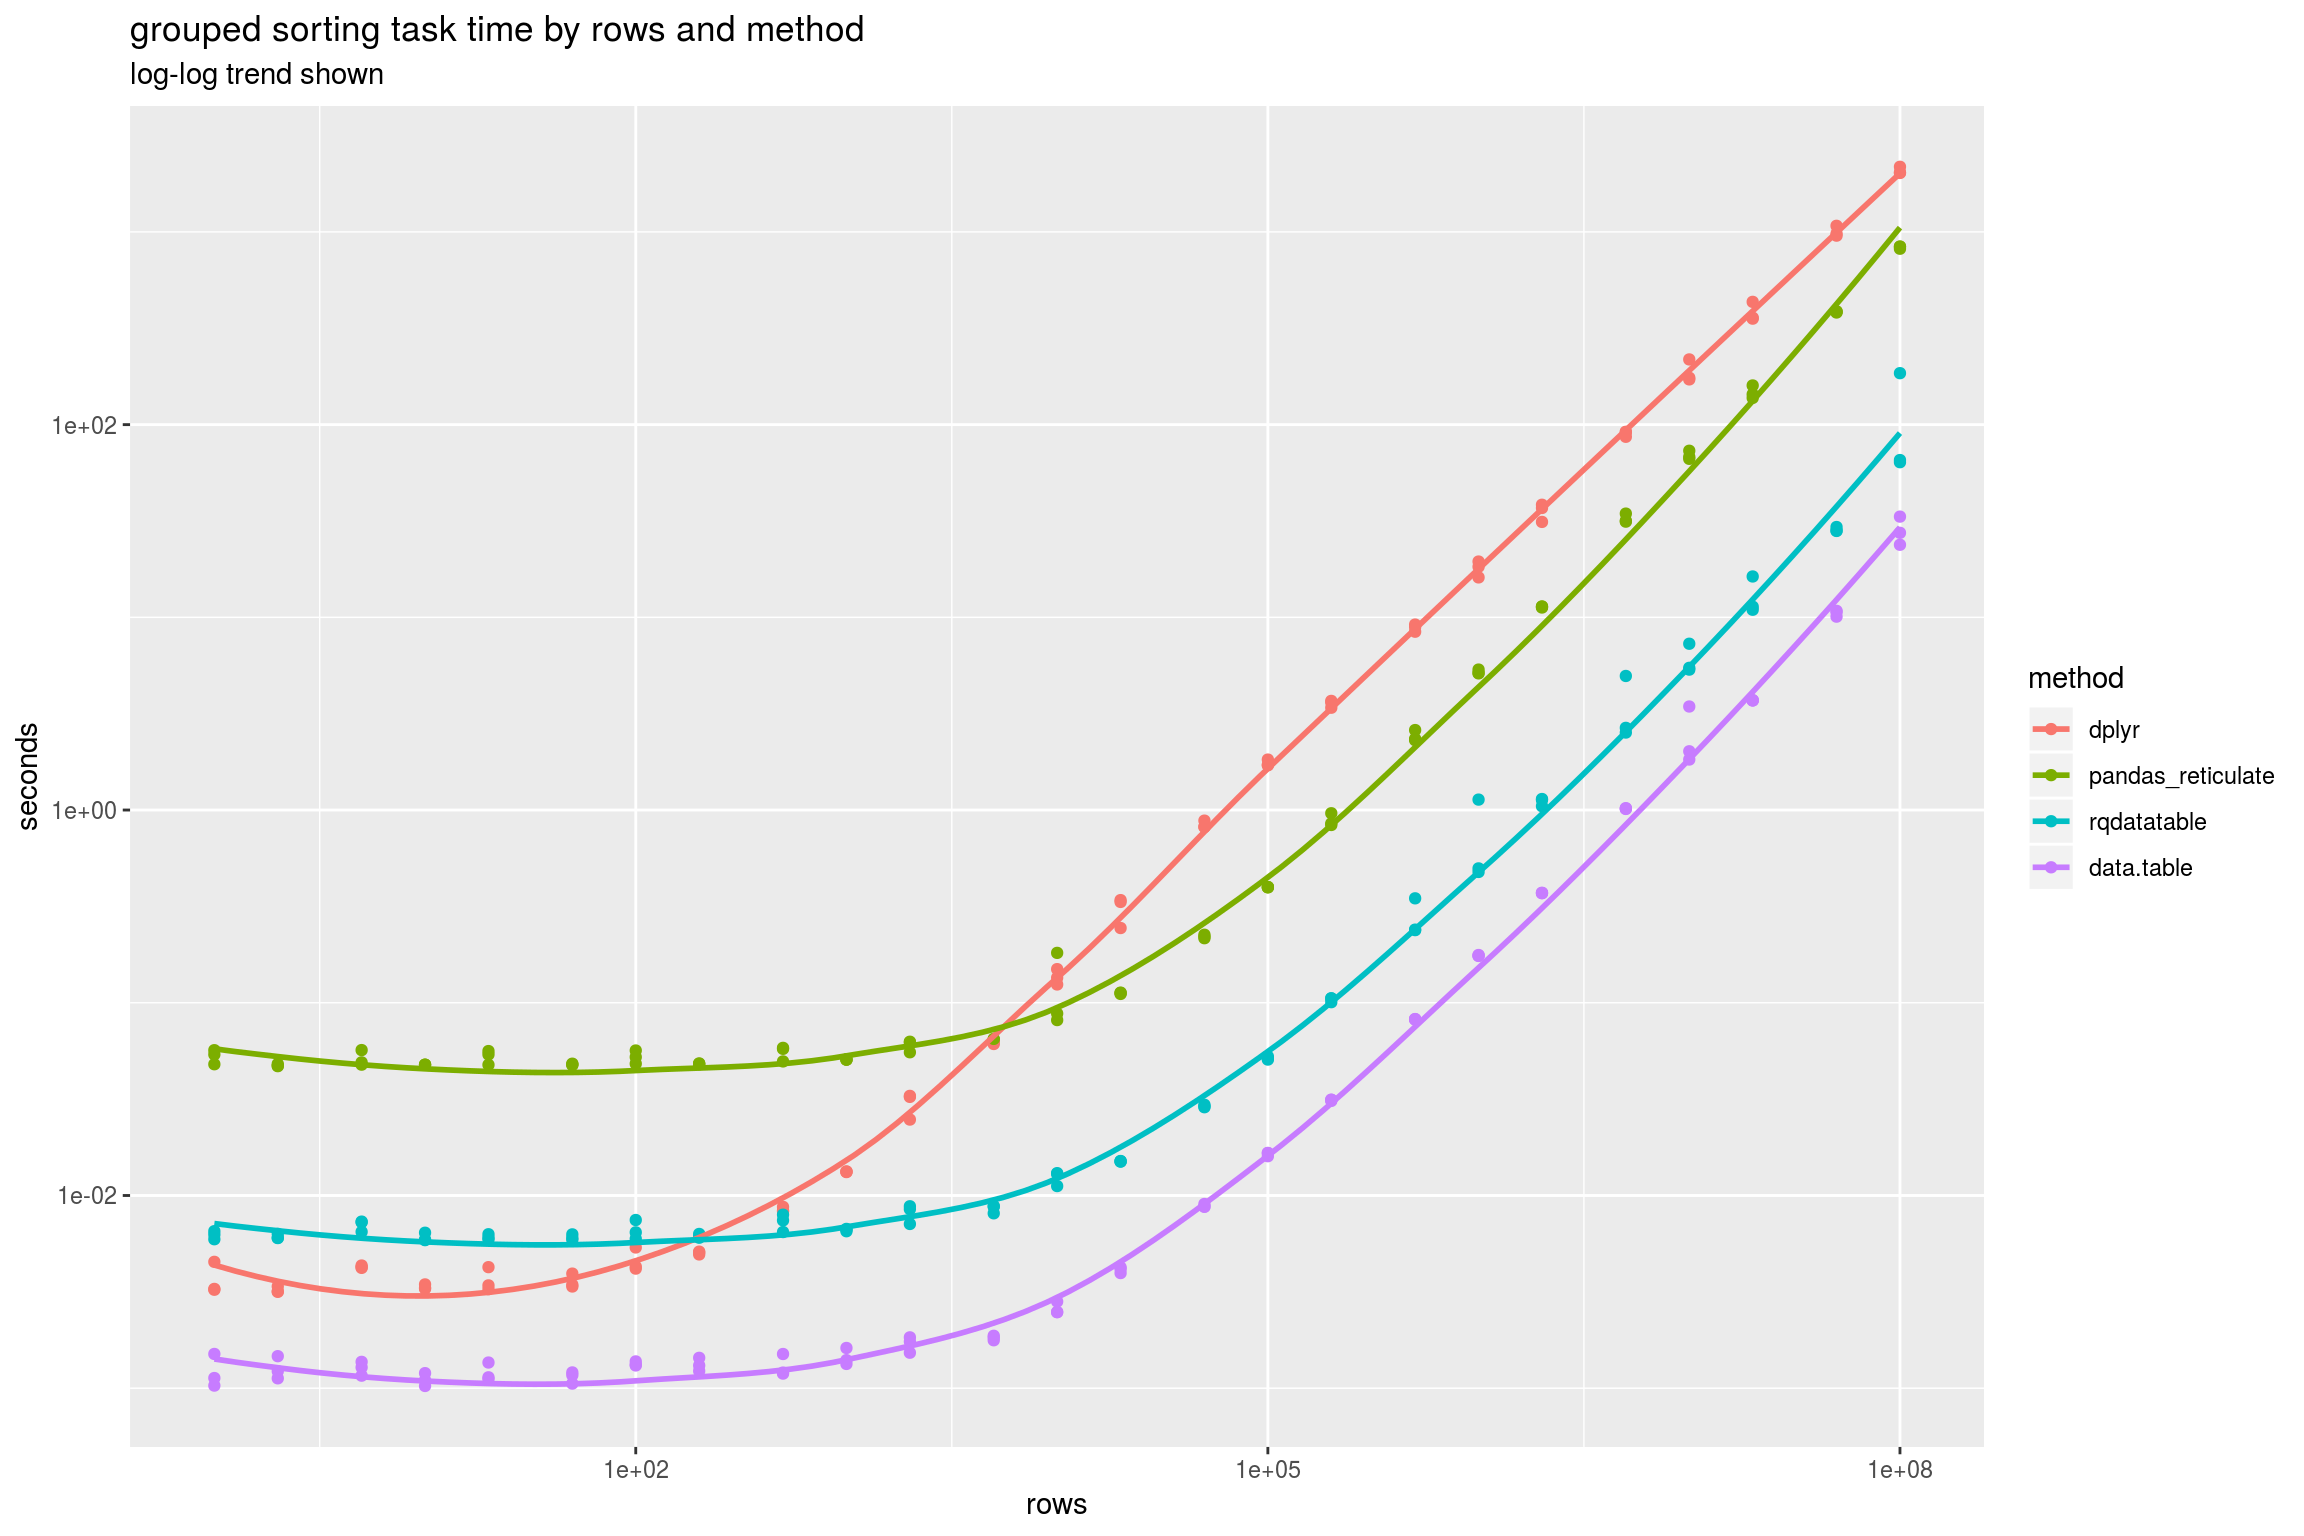
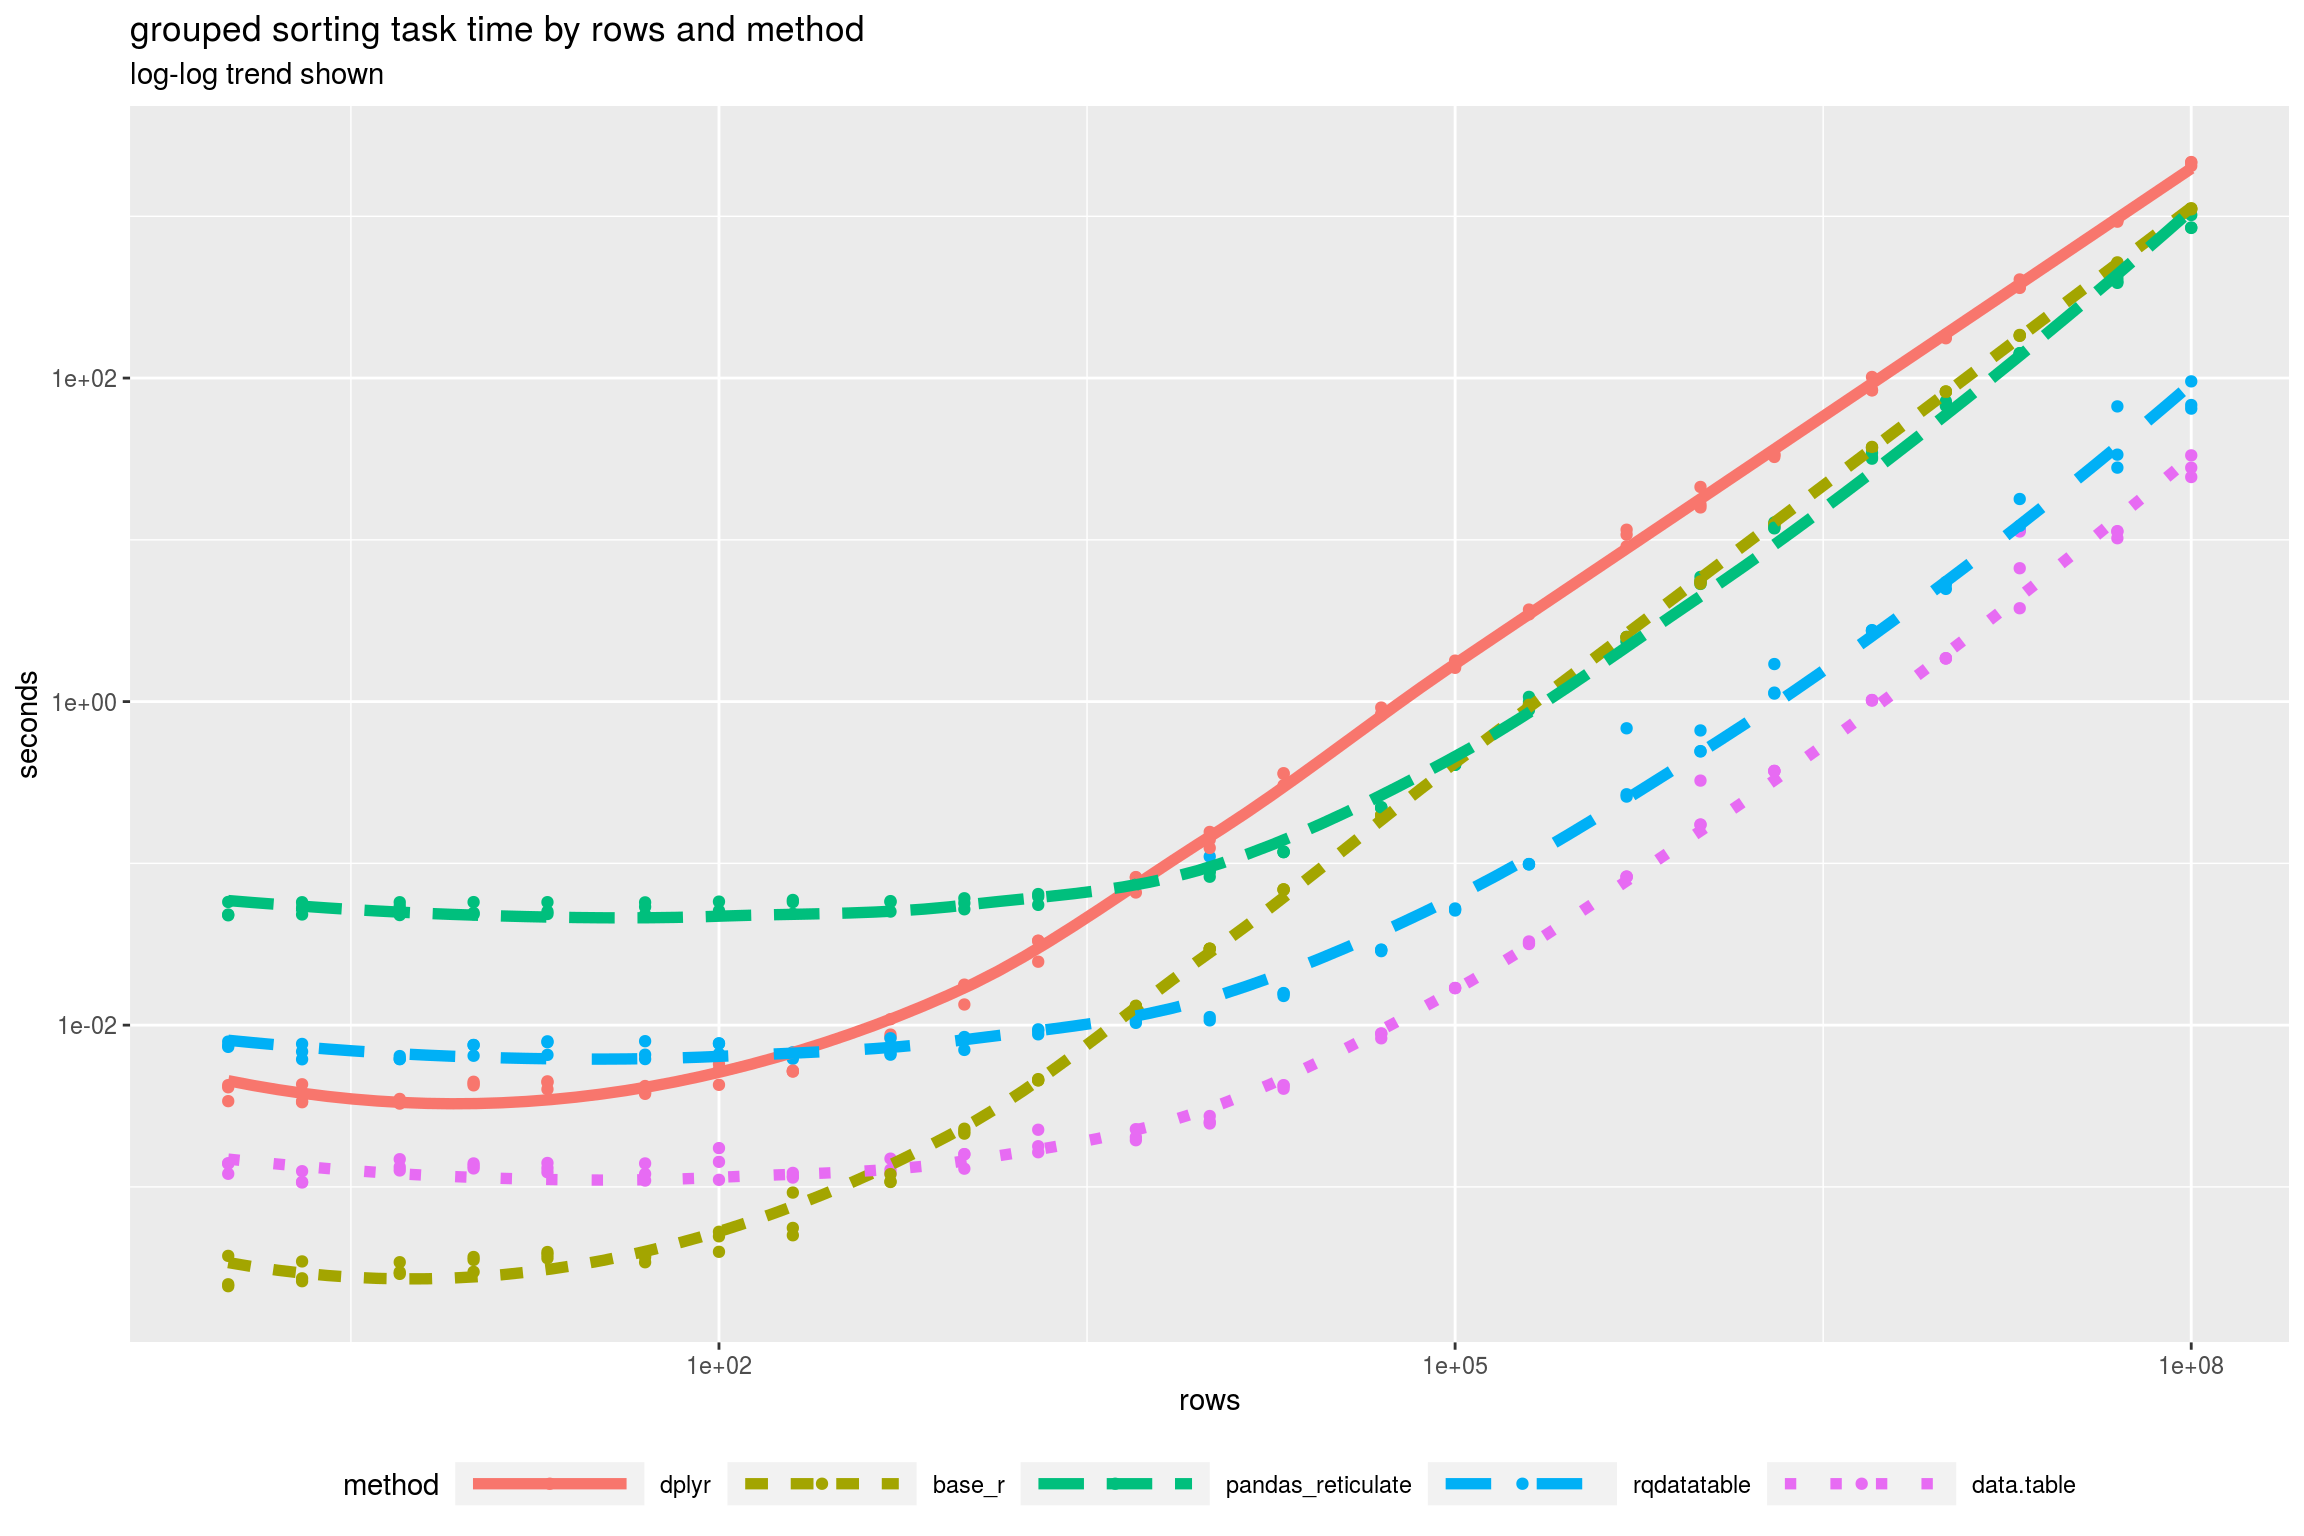
add base R to the run

diff --git a/extras/GroupedRankFilter2.md b/extras/GroupedRankFilter2.md
@@ -7,6 +7,7 @@ Amazon EC2 `r4.8xlarge` (244 GiB RAM) run (8-12-2018, 64-bit Ubuntu Server 16.04
 # https://cran.r-project.org/web/packages/reticulate/vignettes/r_markdown.html
 library("reticulate")
 use_python("/home/ruser/miniconda3/bin/python3")
+# use_python("/Users/johnmount/anaconda3/bin/python3")
 pandas_handle <- reticulate::import("pandas") # don't use as https://github.com/rstudio/reticulate/issues/319
 
 pandas_fn <- py_run_string("
@@ -116,6 +117,21 @@ ds %>%
     ## Error in rank(x, ties.method = "first", na.last = "keep"): argument "x" is missing, with no default
 
 ``` r
+shift_col <- function(col) { c(col[1], col[-length(col)]) }
+
+base_r <- function(df) {
+  df <- df[order(df$col_a, df$col_b, df$col_c, df$col_x), , drop = FALSE]
+  first <- (df$col_a != shift_col(df$col_a)) | 
+    (df$col_b != shift_col(df$col_b)) | 
+    (df$col_c != shift_col(df$col_c))
+  first[[1]] <- TRUE
+  df <- df[first, , drop = FALSE]
+  rownames(df) <- NULL
+  df
+}
+```
+
+``` r
 pow <- 8
 rds_name <- "GroupedRankFilter2_runs.RDS"
 if(!file.exists(rds_name)) {
@@ -125,8 +141,12 @@ if(!file.exists(rds_name)) {
   runs <- lapply(
     rev(szs),
     function(sz) {
+      gc()
       d <- mk_data(sz)
       ti <- microbenchmark(
+        base_r = {
+          base_r(d)
+        },
         data.table = { 
           # https://stackoverflow.com/questions/16325641/how-to-extract-the-first-n-rows-per-group
           d %.>% 
@@ -174,12 +194,16 @@ timings$seconds <- timings$time/1e+9
 timings$method <- factor(timings$expr)
 timings$method <- reorder(timings$method, -timings$seconds)
 
-ggplot(data = timings, aes(x = rows, y = seconds, color = method)) +
+ggplot(data = timings, aes(x = rows, y = seconds, 
+                           color = method, linetype = method)) +
   geom_point() + 
-  geom_smooth(se = FALSE) +
-  scale_x_log10() + scale_y_log10() +
+  geom_smooth(se = FALSE, size = 2) +
+  scale_x_log10() +
+  scale_y_log10() +
   ggtitle("grouped sorting task time by rows and method",
-          subtitle = "log-log trend shown")
+          subtitle = "log-log trend shown") +
+  theme(legend.position="bottom",
+        legend.key.width = unit(5, "line"))
 ```
 
     ## `geom_smooth()` using method = 'loess' and formula 'y ~ x'
@@ -202,39 +226,40 @@ means <- timings %.>%
 knitr::kable(means)
 ```
 
-|   rows|  data.table|         dplyr|  pandas\_reticulate|  rqdatatable|       ratio|
-|------:|-----------:|-------------:|-------------------:|------------:|-----------:|
-|  1e+00|   0.0012220|     0.0036808|           0.0528722|    0.0062401|    3.012173|
-|  2e+00|   0.0012721|     0.0032407|           0.0474003|    0.0061236|    2.547409|
-|  5e+00|   0.0012714|     0.0042640|           0.0512000|    0.0070195|    3.353799|
-|  1e+01|   0.0011080|     0.0033529|           0.0476711|    0.0060561|    3.026090|
-|  2e+01|   0.0012042|     0.0036422|           0.0525711|    0.0060827|    3.024552|
-|  5e+01|   0.0011446|     0.0035813|           0.0478871|    0.0060665|    3.128768|
-|  1e+02|   0.0013386|     0.0046073|           0.0523581|    0.0066181|    3.441996|
-|  2e+02|   0.0013257|     0.0050385|           0.0481853|    0.0061737|    3.800794|
-|  5e+02|   0.0013002|     0.0084516|           0.0552084|    0.0072802|    6.500211|
-|  1e+03|   0.0014505|     0.0132834|           0.0507414|    0.0066255|    9.157561|
-|  2e+03|   0.0017025|     0.0300404|           0.0601327|    0.0081342|   17.644900|
-|  5e+03|   0.0018250|     0.0619265|           0.0644052|    0.0085473|   33.932531|
-|  1e+04|   0.0025937|     0.1362418|           0.1169200|    0.0123986|   52.528797|
-|  2e+04|   0.0041173|     0.3062655|           0.1121389|    0.0150407|   74.385092|
-|  5e+04|   0.0088449|     0.8391986|           0.2206598|    0.0290885|   94.879296|
-|  1e+05|   0.0164051|     1.7502977|           0.3979698|    0.0516130|  106.692192|
-|  2e+05|   0.0312433|     3.5663185|           0.8836784|    0.1038430|  114.146763|
-|  5e+05|   0.0820740|     8.8326184|           2.4153055|    0.2753604|  107.617704|
-|  1e+06|   0.1758014|    17.9648324|           5.2094482|    0.7027790|  102.188235|
-|  2e+06|   0.3711697|    35.5348507|          11.3279683|    1.1058219|   95.737470|
-|  5e+06|   1.0178499|    89.8890604|          32.5319896|    3.3859227|   88.312690|
-|  1e+07|   2.4310282|   188.1988675|          69.2231432|    6.0397727|   77.415336|
-|  2e+07|   3.7101990|   382.3118725|         146.9938764|   12.8661763|  103.043494|
-|  5e+07|  10.5123341|  1003.7706922|         384.8652335|   28.5743195|   95.485045|
-|  1e+08|  28.1888318|  2077.8368593|         831.7301071|  104.7479324|   73.711350|
+|   rows|       base\_r|  data.table|         dplyr|  pandas\_reticulate|  rqdatatable|       ratio|
+|------:|-------------:|-----------:|-------------:|-------------------:|------------:|-----------:|
+|  1e+00|     0.0002893|   0.0013325|     0.0039254|           0.0512419|    0.0075790|    2.945841|
+|  2e+00|     0.0002932|   0.0011294|     0.0036759|           0.0528443|    0.0068870|    3.254752|
+|  5e+00|     0.0003099|   0.0013581|     0.0033767|           0.0532702|    0.0062582|    2.486286|
+|  1e+01|     0.0003403|   0.0013485|     0.0043542|           0.0518351|    0.0071795|    3.228994|
+|  2e+01|     0.0003796|   0.0013151|     0.0043106|           0.0522062|    0.0074439|    3.277694|
+|  5e+01|     0.0003630|   0.0012311|     0.0039330|           0.0531442|    0.0068979|    3.194622|
+|  1e+02|     0.0004733|   0.0014238|     0.0051162|           0.0524040|    0.0073499|    3.593244|
+|  2e+02|     0.0006608|   0.0011772|     0.0051955|           0.0552670|    0.0064488|    4.413452|
+|  5e+02|     0.0011173|   0.0013277|     0.0093479|           0.0554849|    0.0071853|    7.040724|
+|  1e+03|     0.0022101|   0.0014939|     0.0162594|           0.0565608|    0.0078529|   10.883527|
+|  2e+03|     0.0045852|   0.0018925|     0.0303687|           0.0607572|    0.0091274|   16.047078|
+|  5e+03|     0.0130999|   0.0020826|     0.0766733|           0.0741889|    0.0106186|   36.815276|
+|  1e+04|     0.0296574|   0.0025798|     0.1404100|           0.0870428|    0.0440239|   54.425966|
+|  2e+04|     0.0688981|   0.0041732|     0.3406466|           0.1176999|    0.0155363|   81.626753|
+|  5e+04|     0.1980745|   0.0086734|     0.8598038|           0.2212087|    0.0290472|   99.131268|
+|  1e+05|     0.4435825|   0.0169538|     1.6885893|           0.4077173|    0.0518821|   99.599261|
+|  2e+05|     0.9548308|   0.0322762|     3.5516129|           0.9841111|    0.0987897|  110.038288|
+|  5e+05|     2.4986960|   0.0826356|    10.4754257|           2.4088991|    0.4033369|  126.766494|
+|  1e+06|     5.4666837|   0.2240016|    17.8698256|           5.5981733|    0.5497724|   79.775448|
+|  2e+06|    12.3868152|   0.3723851|    33.2980737|          12.1565400|    1.3211994|   89.418374|
+|  5e+06|    37.2254820|   1.0195498|    89.9073401|          32.8994262|    2.7483575|   88.183375|
+|  1e+07|    82.3766165|   1.8505861|   180.7952714|          69.5261685|    5.2569947|   97.696224|
+|  2e+07|   183.3998428|   7.2371603|   377.5268163|         142.0003996|   13.8596790|   52.165048|
+|  5e+07|   513.6415602|  10.9281731|   941.2680897|         398.9318990|   42.7868746|   86.132246|
+|  1e+08|  1111.9033024|  28.5475393|  2120.9840990|         906.1016305|   76.0889183|   74.296565|
 
 ``` r
 ggplot(data = means, aes(x = rows, y = ratio)) +
   geom_point() + 
   geom_smooth(se = FALSE) +
   scale_x_log10() + 
+  scale_color_manual(values = c("#e41a1c", "#377eb8", "#4daf4a", "#984ea3", "#ff7f00")) + 
   ggtitle("ratio of dplyr runtime to data.table runtime",
           subtitle = "grouped sorting/sum task")
 ```
